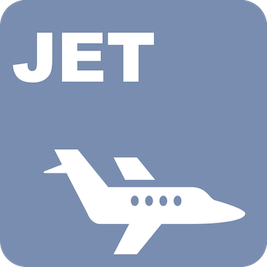
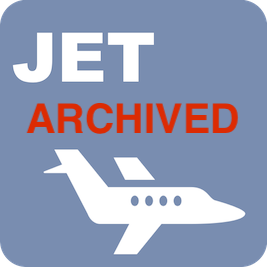
Archive Message

Changed region(s): [[0.0899, 0.3596, 0.8989, 0.5094]]

diff --git a/README.md b/README.md
@@ -1,5 +1,9 @@
-# Jamf-Environment-Test
-![Jet Logo](https://github.com/jamf/Jamf-Environment-Test/blob/master/images/Jet_Icon.png)
+# No Longer Maintained
+Recommended to use [JamfCheck](https://marketplace.jamf.com/details/jamfcheck)
+![JamfCheckLogo](images/JamfCheck.png)
+
+## Jamf-Environment-Test
+![Jet Logo](images/Jet_Icon.png)
 
 Utility for testing an network environments for successful communication from Apple Devices to Apple and Jamf hosted services
 
@@ -9,7 +13,7 @@ It will report on current device proxy settings, and its connectivity to Apple u
 
 This application is designed to run on a macOS device only.
 
-It doesn't require any Administrator privledges, it will query a collection of urls and display some relevant device information
+It doesn't require any Administrator privileges, it will query a collection of urls and display some relevant device information
 
 The output report is a html file that will be automatically opened upon completion of the application run
 
@@ -19,13 +23,13 @@ Full app can be found [here](https://github.com/jamf/Jamf-Environment-Test/relea
 
 How to use Wiki can be found on the [Wiki](https://github.com/jamf/Jamf-Environment-Test/wiki)
 
-## Important
+### Important
 when downloading with Chrome you may see the following error 
 
-![Dangerous](https://github.com/jamf/Jamf-Environment-Test/blob/master/images/dangerous.png)
+![Dangerous](images/dangerous.png)
 
 This is expected due to Google Chrome's security, to proceed with the download click the arrow and then Keep
 
-![Dangerous Keep](https://github.com/jamf/Jamf-Environment-Test/blob/master/images/dangerous_keep.png)
+![Dangerous Keep](images/dangerous_keep.png)
 
 _Note: this tool is open source and is not supported by the Jamf support team_
